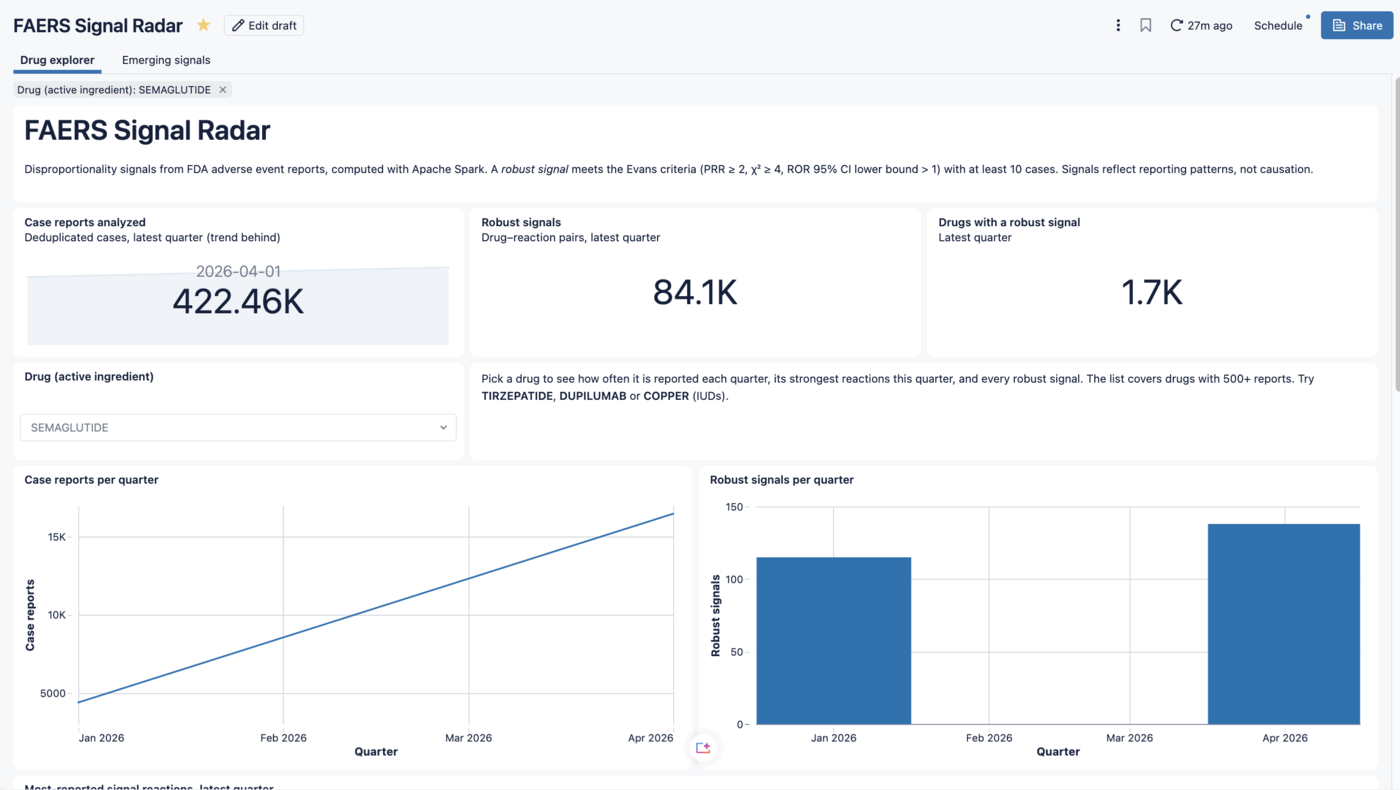
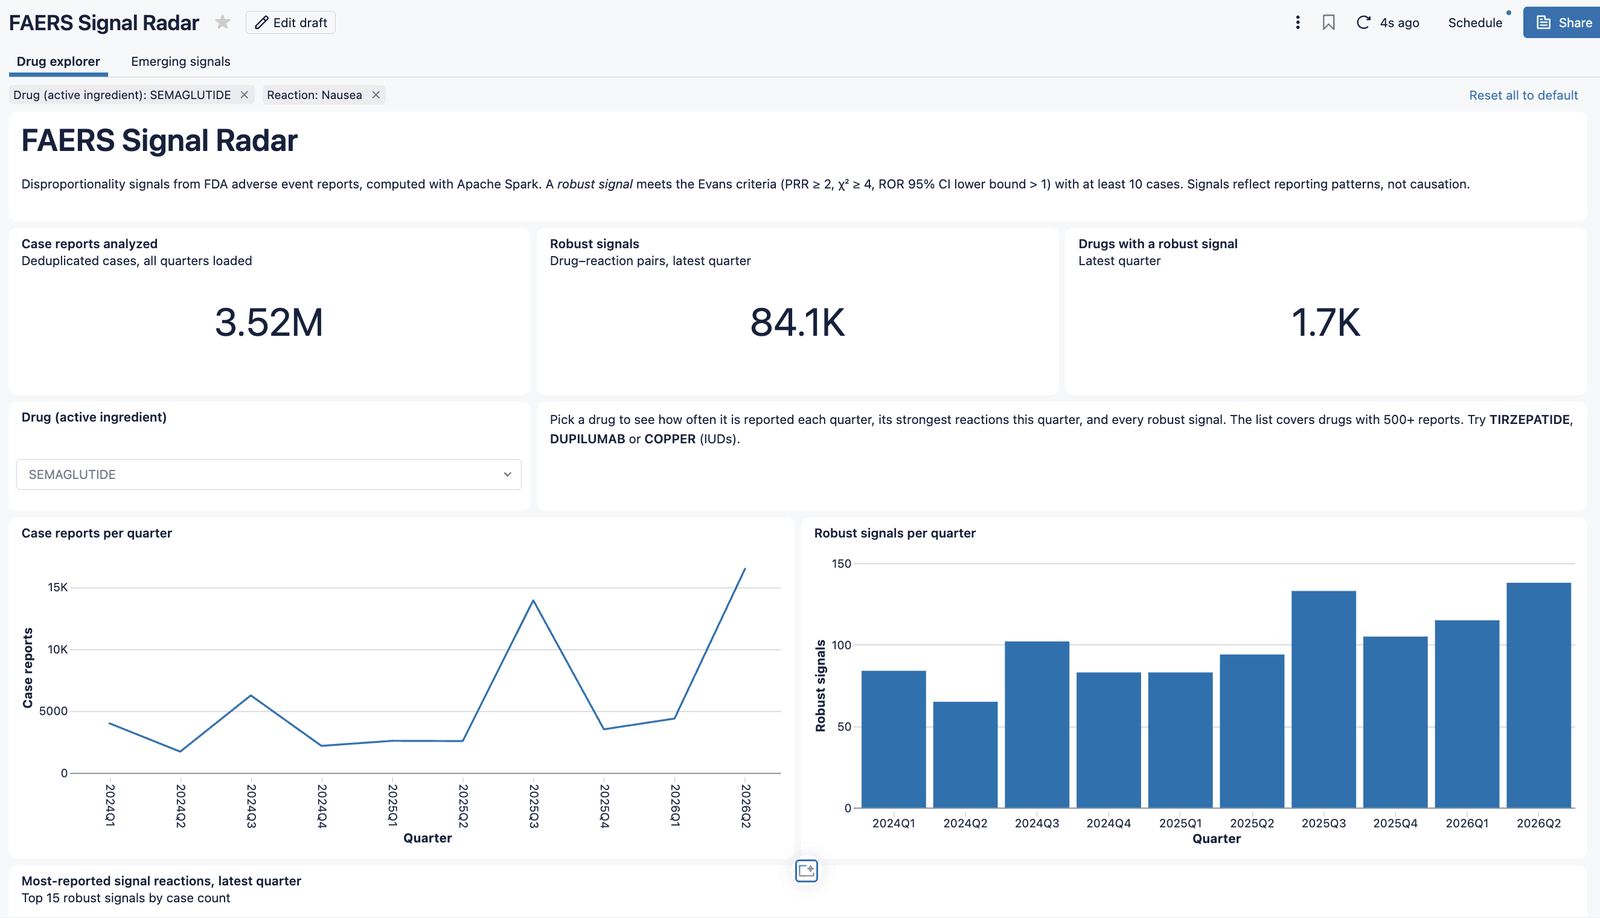
Refresh dashboard screenshots and add emerging signals page (#12)

diff --git a/README.md b/README.md
@@ -30,7 +30,7 @@ From the raw reports alone, the pipeline picks up safety stories that made the n
 
 | If you want to see… | Look at |
 |---|---|
-| The result | [Dashboard screenshot](docs/img/dashboard.png) · [full PDF export](docs/faers-signal-radar.pdf) |
+| The result | [Drug explorer](docs/img/dashboard.png) · [Emerging signals](docs/img/emerging-signals.png) · [full PDF export](docs/faers-signal-radar.pdf) |
 | The Spark code | [`src/faers_radar/transforms.py`](src/faers_radar/transforms.py): dedup, normalization, PRR/ROR/χ² |
 | The Databricks deployment | [`databricks.yml`](databricks.yml): Unity Catalog schema, volume, serverless job, dashboard |
 | The tests | [`tests/test_transforms.py`](tests/test_transforms.py): statistics checked against hand-computed 2×2 tables |
